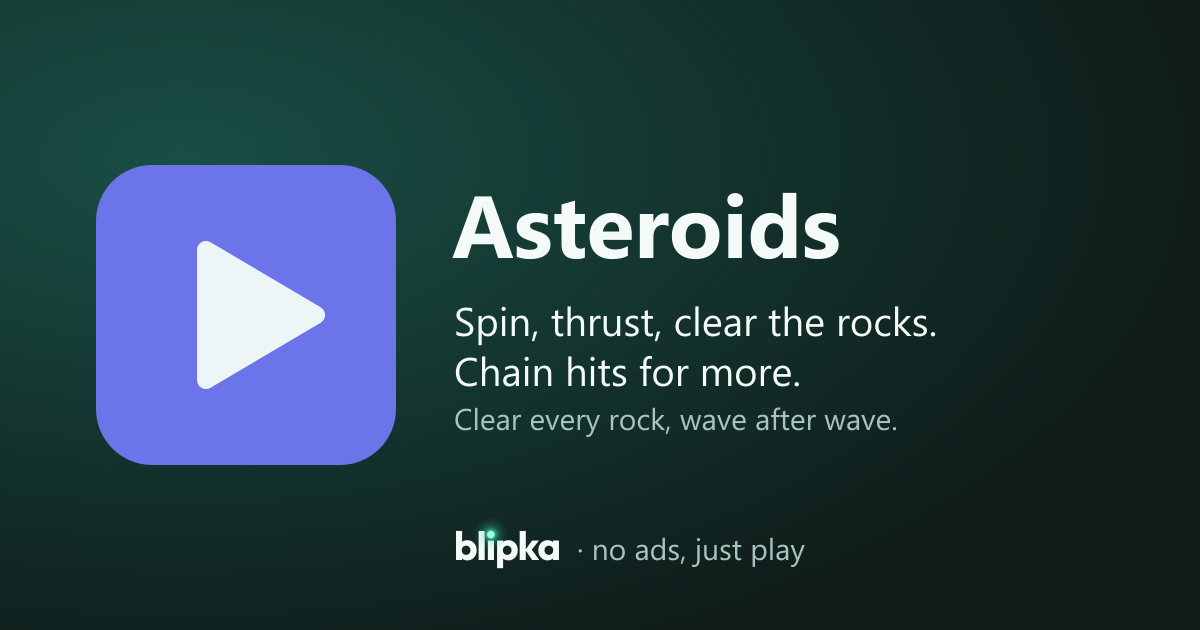
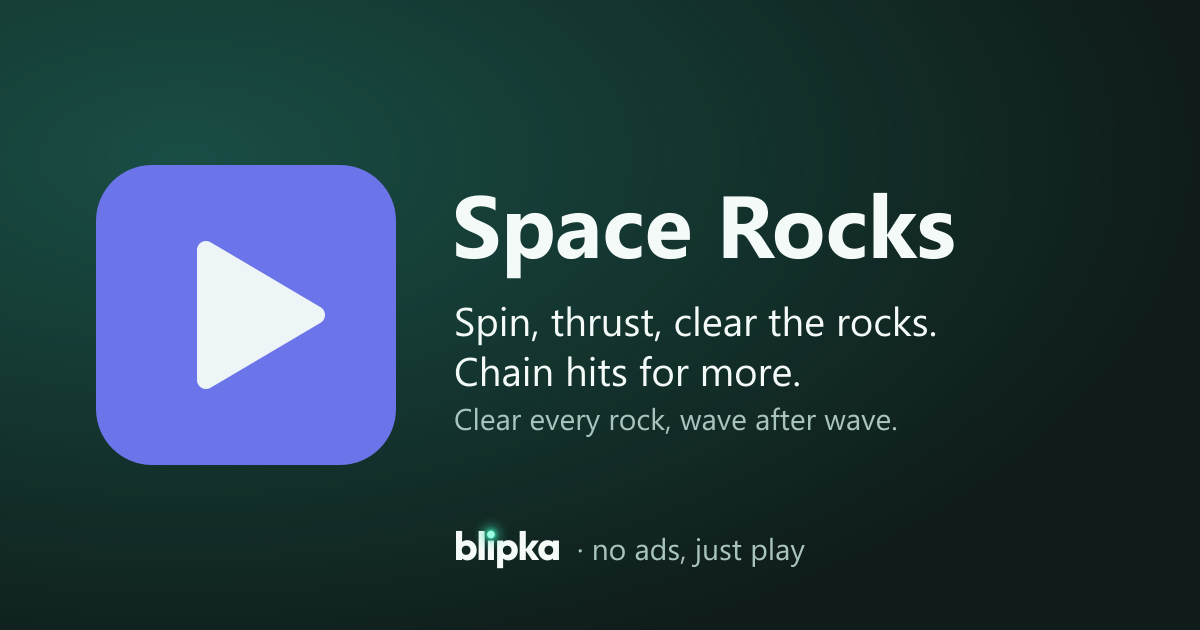
Asteroids is called Space Rocks wherever players read it, as Ramsey picked ("space rocks works", from the "Look-alikes to fix" canvas): "Asteroids" is Atari's trademark for games, and the game's art and play were already our own.
The catalogue's name (so the game card, its page, the breadcrumbs, the prerendered tags and the challenge cards follow), the start card and the wave-clear card, the ship skins' "Space Rocks ship", the Asteroid belt card theme's blurb, the attendant's joke, and the share images (npm run icons:og, only these two kept: the run also redrew three cards for other sessions' blurb edits, left for them). The About page's "inspired by" line names no other company's games now. The slug, its address and its records stay asteroids.

Checked on the dev server: the game page, its title and the start card say Space Rocks, and nothing on the play page says Asteroids.

Changed region(s): [[0.37, 0.3016, 0.8017, 0.4524]]

diff --git a/src/lib/skins.ts b/src/lib/skins.ts
@@ -20,12 +20,12 @@ export type Skin = { id: string; game: string; name: string; season?: number; pr
 
 export const SKINS: readonly Skin[] = [
   { id: 'lander-moonhopper', game: 'lander', name: 'Moonhopper', season: 1, what: 'Lander ship' },
-  { id: 'asteroids-comet', game: 'asteroids', name: 'Comet', season: 1, what: 'Asteroids ship' },
+  { id: 'asteroids-comet', game: 'asteroids', name: 'Comet', season: 1, what: 'Space Rocks ship' },
   { id: 'barrage-nova', game: 'barrage', name: 'Nova fighter', season: 1, what: 'Barrage ship' },
   { id: 'hotlap-rocket', game: 'hotlap', name: 'Rocket car', season: 1, what: 'Hot Lap car' },
   { id: 'snake-comet-tail', game: 'snake', name: 'Blazing comet', season: 1, what: 'Snake skin' },
   // Season 1's Pass+ row.
-  { id: 'asteroids-shuttle', game: 'asteroids', name: 'Shuttle', season: 1, what: 'Asteroids ship', plus: true },
+  { id: 'asteroids-shuttle', game: 'asteroids', name: 'Shuttle', season: 1, what: 'Space Rocks ship', plus: true },
   { id: 'lander-eagle', game: 'lander', name: 'Eagle', season: 1, what: 'Lander ship', plus: true },
   { id: 'barrage-ringship', game: 'barrage', name: 'Ringship', season: 1, what: 'Barrage ship', plus: true },
   { id: 'snake-nebula-tail', game: 'snake', name: 'Astro worm', season: 1, what: 'Snake skin', plus: true },
@@ -33,7 +33,7 @@ export const SKINS: readonly Skin[] = [
   { id: 'hotlap-sunracer', game: 'hotlap', name: 'Shuttle car', season: 1, what: 'Hot Lap car', plus: true },
   { id: 'barrage-stingray', game: 'barrage', name: 'Stingray', season: 1, what: 'Barrage ship', plus: true },
   { id: 'snake-saturn-tail', game: 'snake', name: 'Saturn tail', season: 1, what: 'Snake skin', plus: true },
-  { id: 'asteroids-orbiter', game: 'asteroids', name: 'Orbiter', season: 1, what: 'Asteroids ship', plus: true },
+  { id: 'asteroids-orbiter', game: 'asteroids', name: 'Orbiter', season: 1, what: 'Space Rocks ship', plus: true },
   { id: 'lander-starhopper', game: 'lander', name: 'Starhopper', season: 1, what: 'Lander ship', plus: true },
   // Season 2's (Cold Snap), free row then Pass+. Skins go round the games a season at a time (Ramsey, 2026-10-07):
   // Cold Snap's are Hot Lap's and Snake's, and Swoop's, Marble Run's and Pileup's for the first time. Its Lander,
@@ -56,7 +56,7 @@ export const SKINS: readonly Skin[] = [
   // The Hangar's: for good, traded for tickets (the API's prizes.ts has the prices too). Never a season's.
   { id: 'hotlap-green-flash', game: 'hotlap', name: 'Green Flash', price: 1000, what: 'Hot Lap car' },
   { id: 'lander-gold', game: 'lander', name: 'Gold Lander', price: 1500, what: 'Lander ship' },
-  { id: 'asteroids-retro', game: 'asteroids', name: 'Retro Wedge', price: 800, what: 'Asteroids ship' },
+  { id: 'asteroids-retro', game: 'asteroids', name: 'Retro Wedge', price: 800, what: 'Space Rocks ship' },
   { id: 'barrage-paper-plane', game: 'barrage', name: 'Paper Plane', price: 1200, what: 'Barrage ship' },
   { id: 'snake-candy-stripe', game: 'snake', name: 'Candy Stripe', price: 800, what: 'Snake skin' },
   // Blip's set (Ramsey, 2026-10-11: "i like A, daily question 7 times"): the site's mascot in four games, won one

diff --git a/src/data/prizes.ts b/src/data/prizes.ts
@@ -57,7 +57,7 @@ export const PRIZES: readonly Prize[] = [
   { id: 'cd-checker', kind: 'card', name: 'Checkerboard', price: 600, blurb: 'An old arcade’s checked floor running off to a neon wall, behind your player card.' },
   { id: 'cd-carpet', kind: 'card', name: 'Arcade carpet', price: 750, blurb: 'The old arcade floor, squiggles and all, behind your player card.' },
   { id: 'cd-sunset', kind: 'card', name: 'Sunset grid', price: 1200, blurb: 'A striped sun going down behind a neon grid, behind your player card.' },
-  { id: 'cd-asteroids', kind: 'card', name: 'Asteroid belt', price: 1800, blurb: 'Asteroids’ rocks drifting past your player card, with the ship among them.' },
+  { id: 'cd-asteroids', kind: 'card', name: 'Asteroid belt', price: 1800, blurb: 'The rocks and the ship from Space Rocks, drifting past your player card.' },
   { id: 'cd-aquarium', kind: 'card', name: 'Aquarium', price: 2500, blurb: 'Frenzy’s fish swimming behind your player card.' },
   { id: 'cd-fireflies', kind: 'card', name: 'Firefly lake', price: 3500, blurb: 'Fireflies’ lanterns and fireflies over the lake at night, behind your player card.' },
   { id: 'cf-stars', kind: 'confetti', name: 'Stars', price: 150, blurb: `Stars go up ${CONFETTI}` },

diff --git a/src/games/asteroids/AsteroidsGame.tsx b/src/games/asteroids/AsteroidsGame.tsx
@@ -834,7 +834,7 @@ export function AsteroidsGame() {
             {ui.phase === 'waveClear' && !saveOpen && !paused && (
               <div className="game-card game-card--wave" style={gameAccentStyle('asteroids')}>
                 <div className="game-card__head">
-                  <span className="game-card__kicker">Asteroids</span>
+                  <span className="game-card__kicker">Space Rocks</span>
                   <h2 className="game-card__title">Wave {ui.lastWave} clear</h2>
                   <p className="game-card__figure">{formatWaveTime(ui.lastWaveTime)}s</p>
                 </div>
@@ -872,7 +872,7 @@ export function AsteroidsGame() {
             )}
             {ui.phase === 'menu' && !saveOpen && !paused && (
               <GameStartCard
-                title="Asteroids"
+                title="Space Rocks"
                 slug="asteroids"
                 tools={
                   <AdminWaveSkip

diff --git a/src/pages/AboutPage.tsx b/src/pages/AboutPage.tsx
@@ -77,7 +77,7 @@ export function AboutPage() {
 
         <h2 className="home-about__subtitle">Classic inspiration, original games</h2>
         <p>
-          The lineup is inspired by the games we grew up on — Asteroids-style survival, Frogger
+          The lineup is inspired by the games we grew up on — rock-blasting space runs, road
           crossings, endless hoppers, reflex testers, and arcade shooters — but every title
           here is built for the web as an original take, not a clone. We’re still adding games
           and polishing the in-development ones; expect the cabinet row to grow over time.

diff --git a/src/lib/attendant.ts b/src/lib/attendant.ts
@@ -16,7 +16,7 @@ export const ATTENDANT_LINES = [
   'Looking confident won’t help. Looking cool still counts.',
   'I saw your last run. We’re not talking about it.',
   'Coin slot’s metaphorical. Your free time isn’t. Go play.',
-  'Asteroids called. They want their rocks back.',
+  'Space Rocks called. It wants its rocks back.',
   'Patriot tip: cities are emotional support objects. Protect them.',
   'The fireflies remember every tune. I forget why I walked in here.',
   'Leaderboards lie less than I do. Barely.',

diff --git a/src/components/season/SeasonSpotlight.tsx b/src/components/season/SeasonSpotlight.tsx
@@ -10,7 +10,7 @@ import '../../styles/season.css'
  * with the skin the pass has for it and the level it's at.
  */
 
-/** What a skin is, with its article and its game's name as it's written: "an Asteroids ship", "a Lander ship". */
+/** What a skin is, with its article and its game's name as it's written: "a Space Rocks ship", "a Lander ship". */
 function aSkin(what: string): string {
   return `${/^[aeiou]/i.test(what) ? 'an' : 'a'} ${what}`
 }

diff --git a/src/data/games.ts b/src/data/games.ts
@@ -88,7 +88,7 @@ export type Game = {
 
 export const games: Game[] = [
   {
-    name: 'Asteroids',
+    name: 'Space Rocks',
     slug: 'asteroids',
     tags: ['arcade'],
     description: 'Spin, thrust, clear the rocks. Chain hits for more.',
